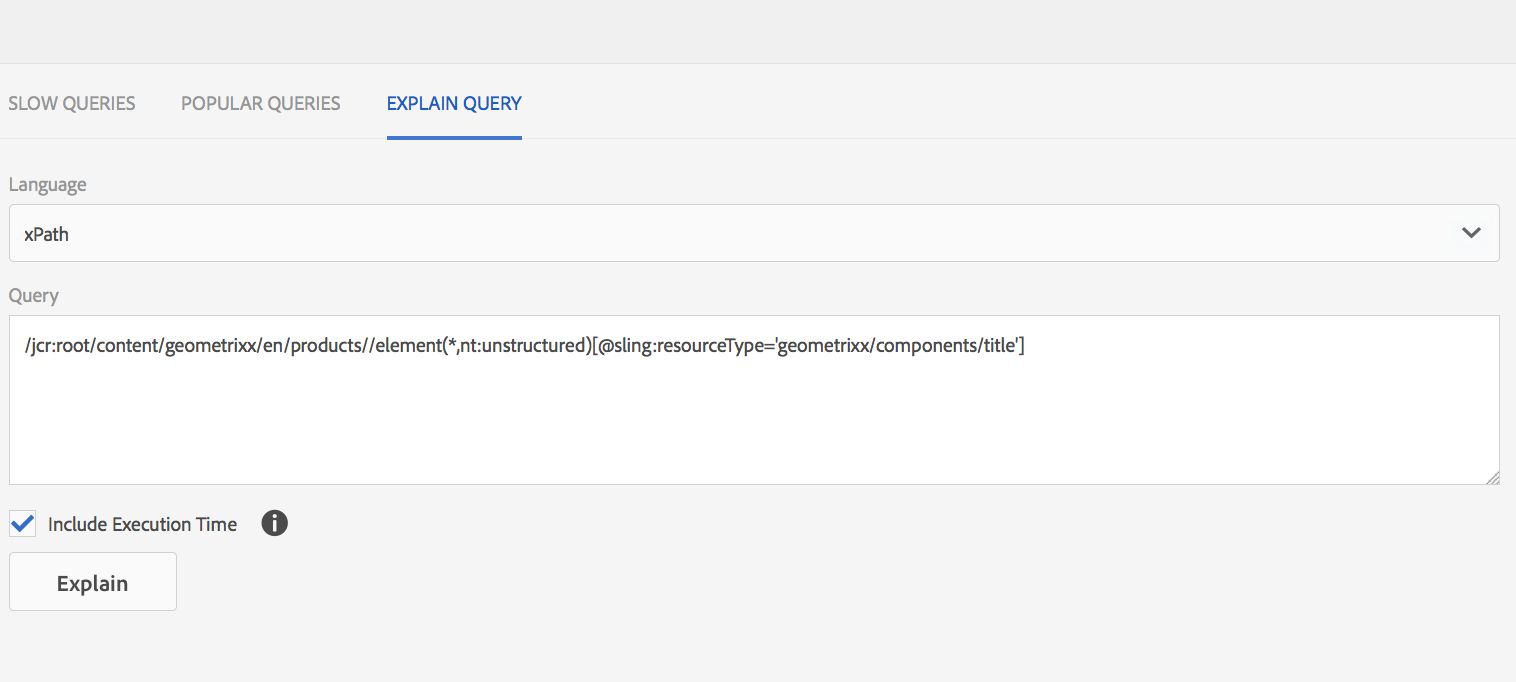
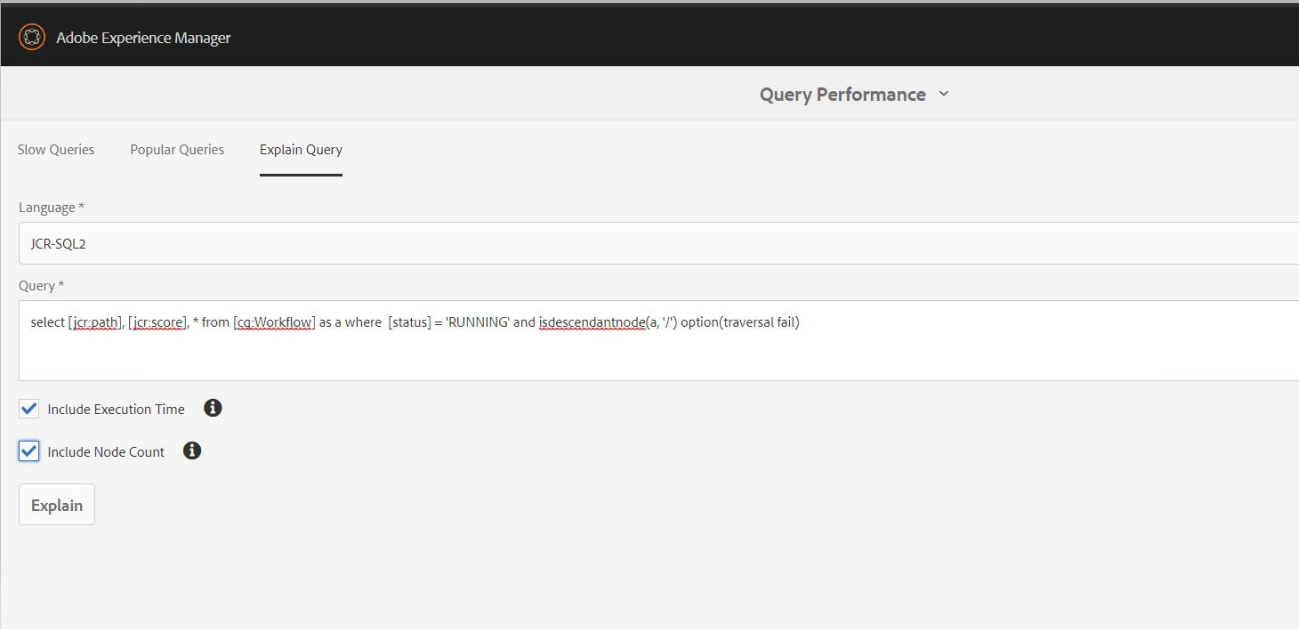
GH83-20211105-01-01

diff --git a/help/sites-administering/operations-dashboard.md b/help/sites-administering/operations-dashboard.md
@@ -501,7 +501,7 @@ The first entry in the Query Explanation section is the actual explanation. The 
 
 The second entry is the execution plan.
 
-Ticking the **Include execution time** box before running the query will also show the amount of time the query was executed in, allowing for more information that can be used for optimizing the indexes for your application or deployment.
+Ticking the **Include execution time** box before running the query will also show the amount of time the query was executed in. The **Include Node Count** option will report the node count. These allow for more information, that can be used for optimizing the indexes for your application or deployment.
 
 ![chlimage_1-125](assets/chlimage_1-125.png)
 
